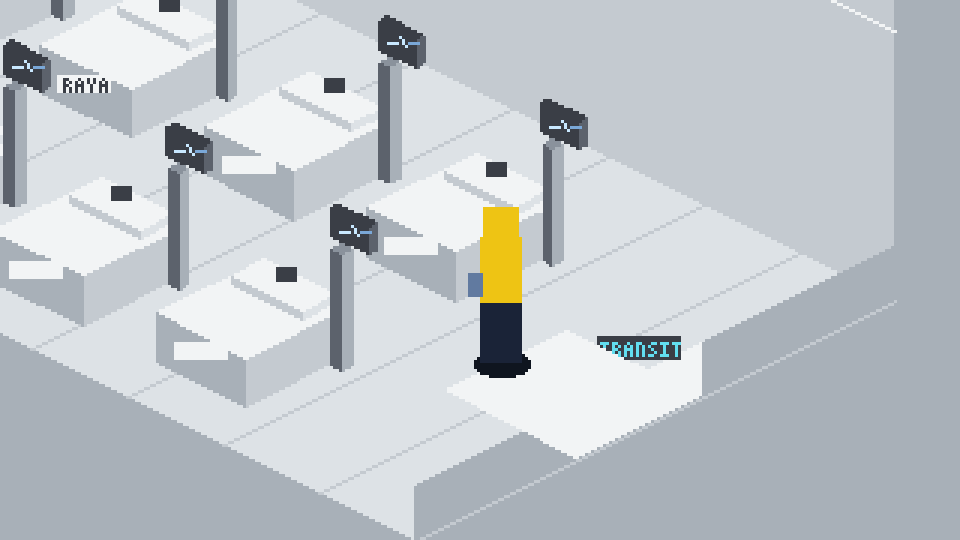
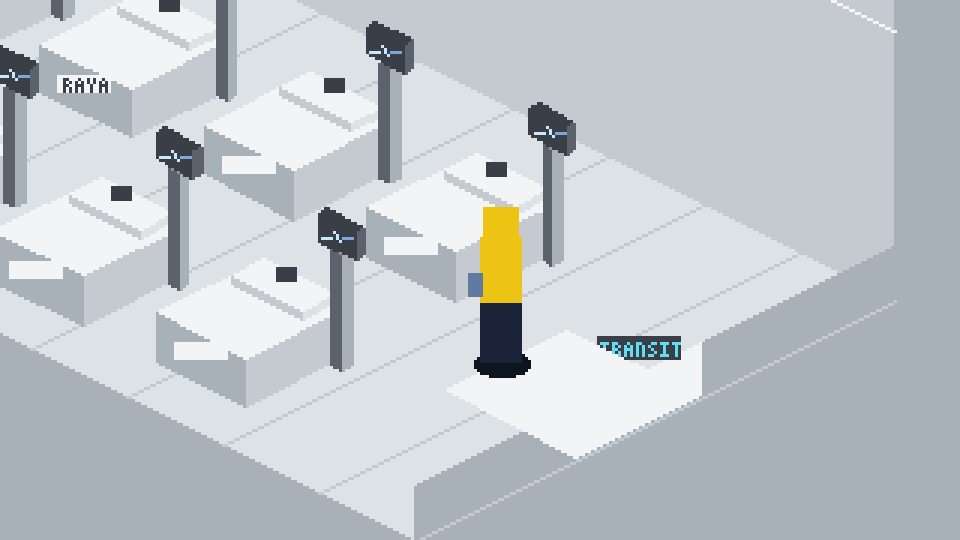
The station's monitors sit centred on their poles now (the user saw them shifted off), and the bible says why the Purge's deadline shows on the station in Chapter 4: the terminal is the staff's internal maintenance schedule, as a hospital shows a planned system update, since the station is hit harde

diff --git a/art/mockups/kapitel3_orte_blocks.px.js b/art/mockups/kapitel3_orte_blocks.px.js
@@ -133,8 +133,8 @@ scene("station_blocks", { w: 624, h: 400, bg: "B" },                    // bigge
       blk(c, P, u + 0.1, v + 0.05, 0.55, 0.75, 0.35, 0.1, "F", "D", "E")                   // the pillow
       { const [x, y] = P(u + 0.47, v + 0.22, 0.75); c.rect(x - 3, y - 3, 7, 5, "K") }       // the head, dark hair
       blk(c, P, u + 0.95, v + 0.1, 0, 0.12, 0.12, 1.3, "A", "L", "B")                      // the monitor's pole
-      blk(c, P, u + 0.82, v, 1.3, 0.4, 0.1, 0.32, "K", "K", "L")
-      { const [x, y] = P(u + 1.02, v + 0.05, 1.45); c.line(x - 5, y, x - 2, y, "x"); c.line(x - 1, y - 2, x + 1, y + 1, "x"); c.line(x + 2, y, x + 5, y, "p") }
+      blk(c, P, u + 0.81, v + 0.11, 1.3, 0.4, 0.1, 0.32, "K", "K", "L")                   // the monitor, centred on its pole
+      { const [x, y] = P(u + 1.01, v + 0.21, 1.45); c.line(x - 5, y, x - 2, y, "x"); c.line(x - 1, y - 2, x + 1, y + 1, "x"); c.line(x + 2, y, x + 5, y, "p") }
       const nm = names[i] ?? ""; i++
       { const [x, y] = P(u + 0.47, v + 1.1, 0.4); c.rect(x - 9, y - 2, 18, 6, "F"); if (nm) TXT.draw(c, x, y - 1, nm, "K", { font: "hud", align: "center" }) }
     }

diff --git a/docs/story.md b/docs/story.md
@@ -512,7 +512,12 @@ Das Design entsteht in `docs/kapitel3-design.md` (Entscheidungen in §10l).
 - **Die Schlafstation:**
   - Juno fährt die Transitachse hinauf zur Station;
   - sie sieht Teo und die Sinker in Reihen, beobachtet von den Kameras der Station;
-  - ein Terminal der Station zeigt den **Zeitplan der Bereinigung** (auf dem Bildschirm `PURGE`): drei Tage.
+  - ein Terminal der Station zeigt den **Zeitplan der Bereinigung** (auf dem Bildschirm `PURGE`): drei Tage. Es ist kein
+    Aushang, sondern der interne Wartungsplan des Personals, wie ein Krankenhaus ein geplantes System-Update anzeigt: Die Station
+    trifft es am härtesten, denn hier liegen die Sinker, die das Update nicht überleben, und das Personal bereitet sich darauf vor.
+    Auf dem Bildschirm in Nagi·was kalter Sprache etwa `FIRMWARE OBS-5 // PURGE // STATION 5-MITTE // T-72:00:00`, darunter
+    `BETTENFREIGABE NACH ABSCHLUSS`: für die Leute dort Routine, für Juno ein Schock. Öffentlich ist es nicht; Juno sieht es nur,
+    weil sie hineinkommt (§10l).
 - **Entscheidung 4:** ob Juno Teo jetzt rettet. Sie kann ihn wecken, **gegen seinen Willen** (unter
   Schmerzen, und er ist vielleicht nicht mehr ganz er selbst), oder ihn im Traum lassen, wie er es will,
   wo der Zeuge ihn bis zum Ende in Sicherheit hält. Wer weckt, entscheidet über seinen Kopf hinweg, wie
@@ -1005,6 +1010,11 @@ Am selben Tag, nach dem ersten Entwurf:
   Dach ausgesucht, das Jahr des Fotos. Das Foto am Deck bekommt dafür einen Datumsstempel.
 - **Morrows Tochter heißt Raya Morrow.** Der Rest ist ein Vorschlag im Design (`kapitel3-design` §6.1).
 - **Tintes Abschied kauft Sable,** wenn Juno ihn verkauft.
+- **Warum die Frist der Bereinigung auf der Station steht** (§7, Kapitel 4): Das Terminal ist der interne Wartungsplan des Personals;
+  die Station trifft das Update am härtesten, weil dort die Sinker liegen. Der Bildschirm sagt es in Nagi·was Sprache
+  (`FIRMWARE OBS-5 // PURGE // STATION 5-MITTE // T-72:00:00`, `BETTENFREIGABE NACH ABSCHLUSS`).
+- **Lulls Farben:** Das Pflaster und alles, was seinen Takt in der wachen Welt zeigt (die Monitore an den Betten der Station), bleiben
+  im Blassblau des Pflasters; Magenta und Weiß sind der Traum und der Zeuge (Style Guide §5).
 - **Entscheidung 3:** Die drei Reaktionen des Zeugen bleiben, wie der Entwurf sie vorschlägt (`kapitel3-design` §3.7). Nach „Ich helfe
   dir.“ gibt er Nagi·wa nicht mehr weiter, was die Schläfer an Juno markieren; er versteckt sie nicht, er meldet sie nur nicht mehr, und
   in Kapitel 4 findet die Quiet sie darum schwerer.
